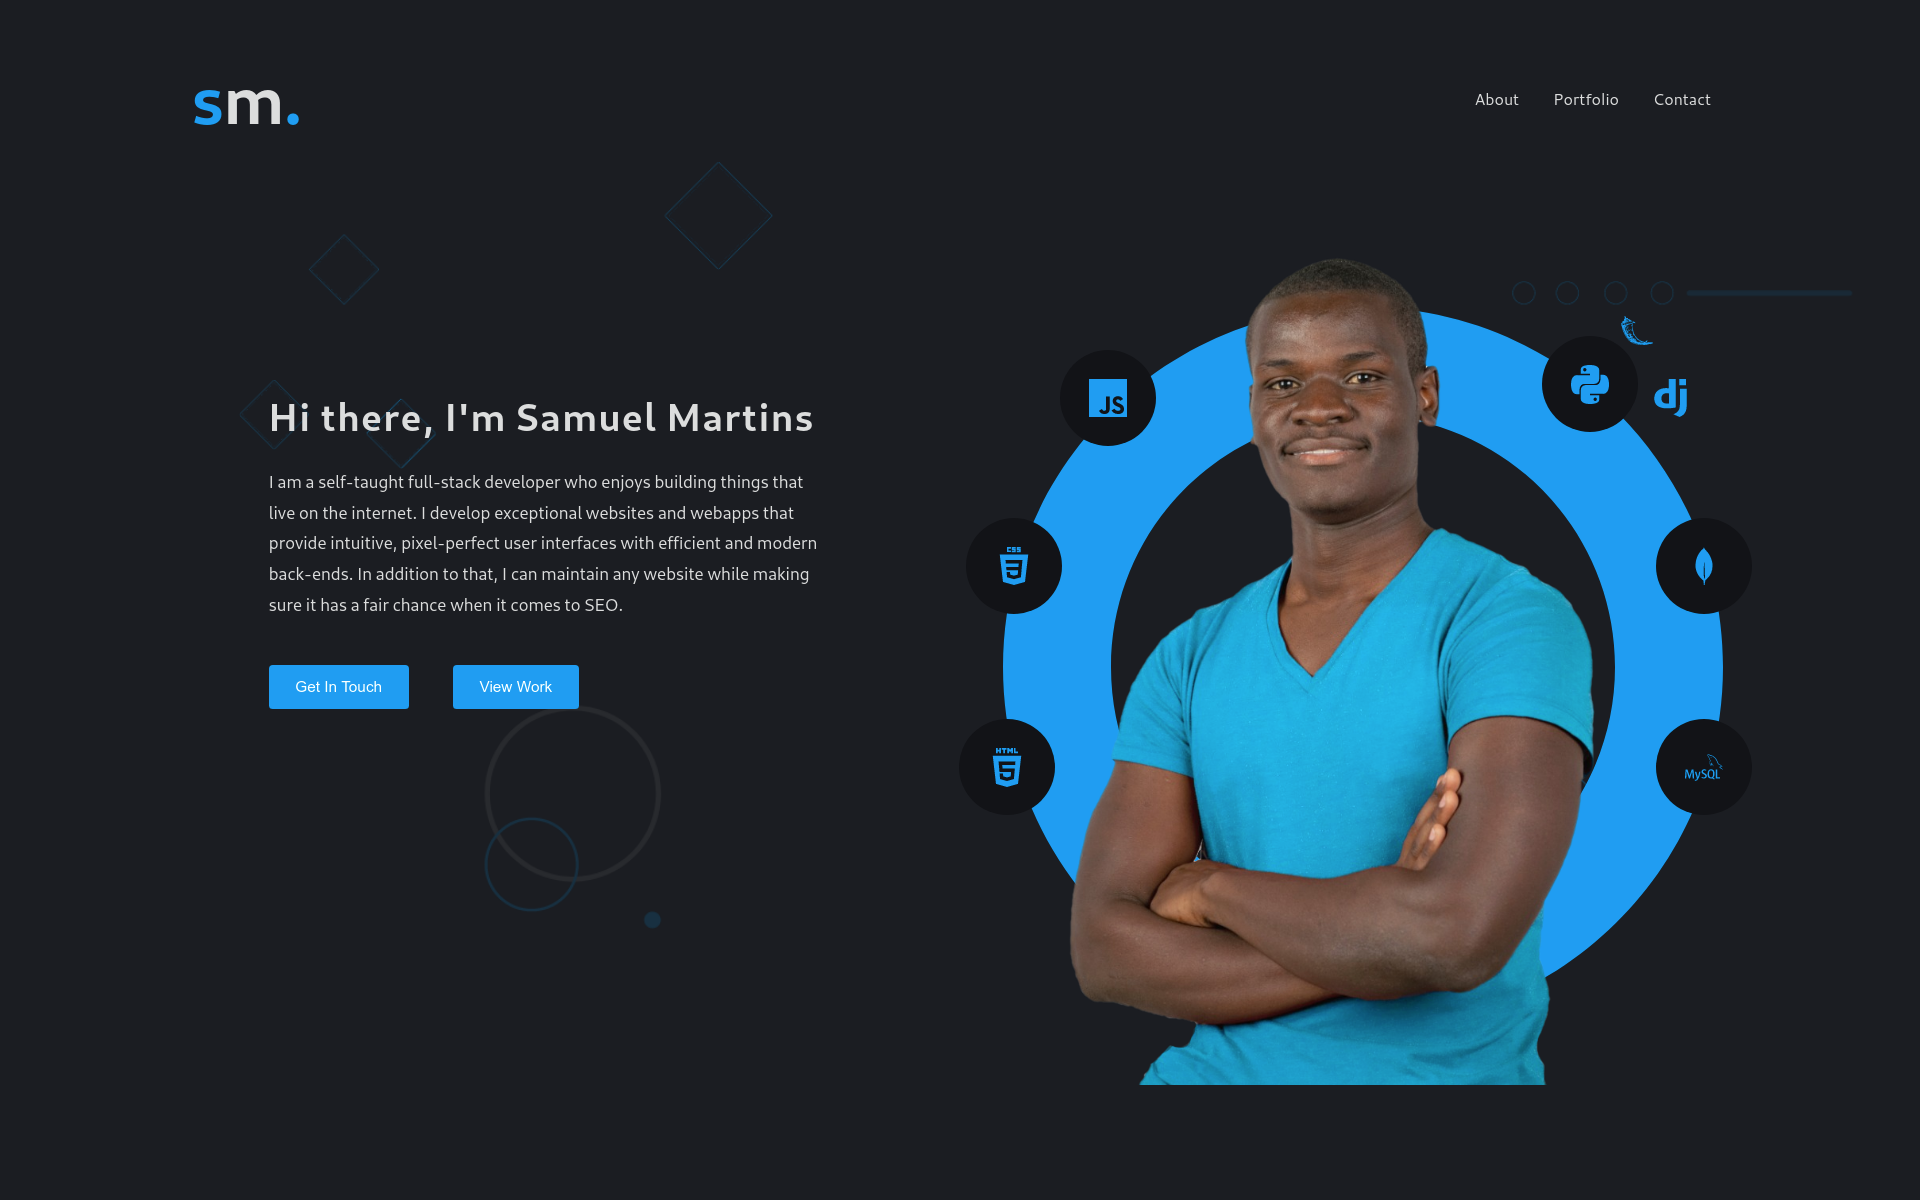
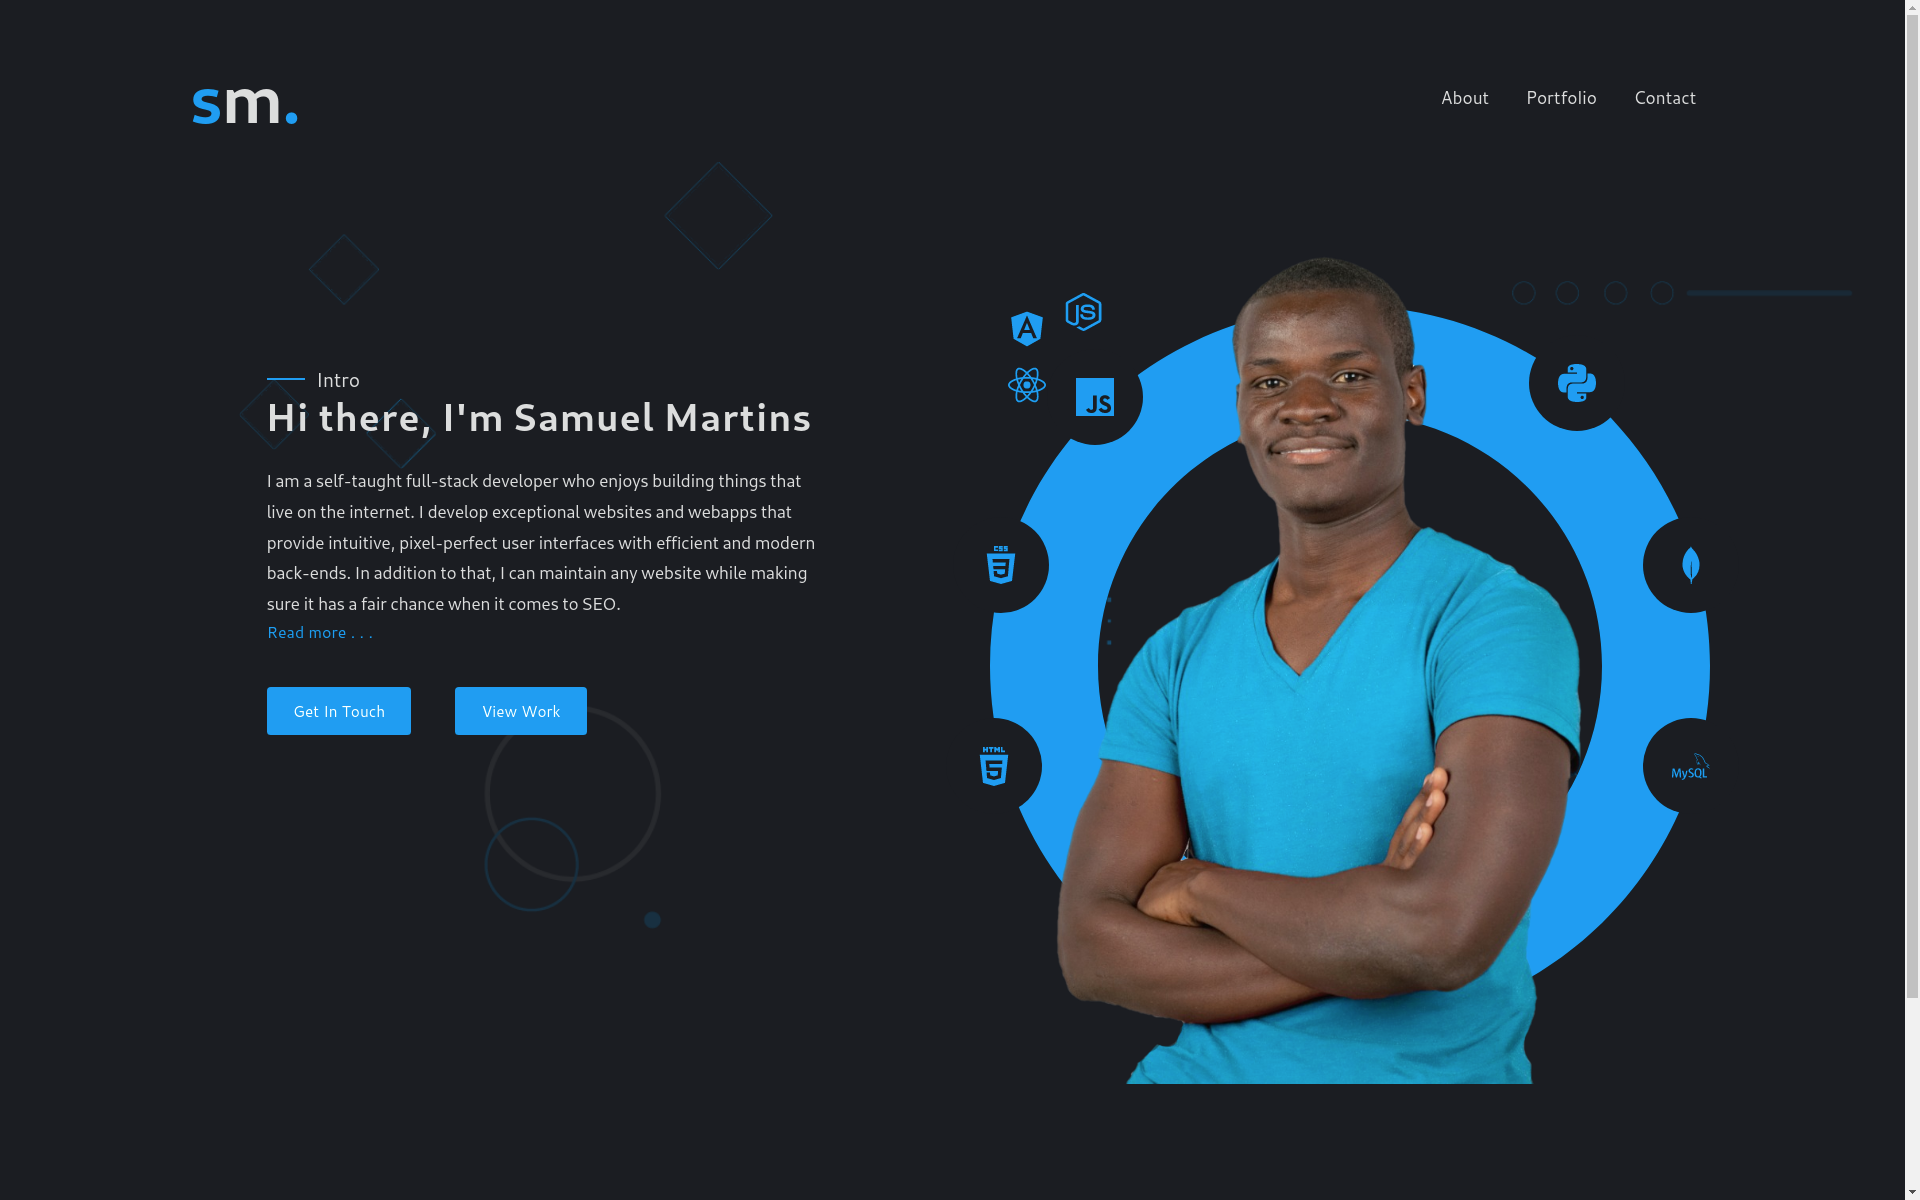
doc: update README file

diff --git a/assets/css/styles.css b/assets/css/styles.css
@@ -368,3 +368,26 @@ header .navlinks ul li a {
     top: 75%;
     right: -15%;
 }
+
+/* - - - - - about me styling - - - - - */
+.title {
+    margin-top: 15%;
+    padding: 5%;
+    display: flex;
+    align-items: center;
+    justify-content: flex-start;
+}
+.title hr {
+    display: inline-block;
+    width: 2vw;
+    outline: none;
+    border: none;
+    height: 0.1vw;
+    background-color: #009ff6;
+}
+
+.title span {
+    color: #dcdddd;
+    margin-left: 1%;
+    font-size: 1vw;
+}

diff --git a/index.html b/index.html
@@ -85,6 +85,12 @@
             </section>
 
             <!-- about section -->
+            <div class="title">
+                <hr><span>About Me</span>
+            </div>
+            <section id="about">
+                
+            </section>
         </main>
     </body>
 </html>
